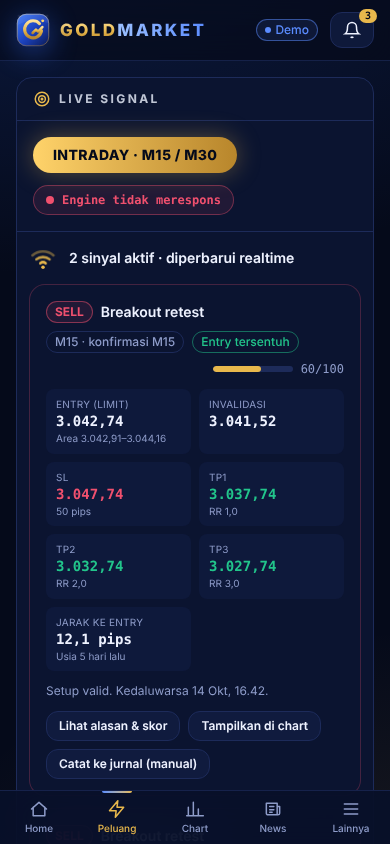
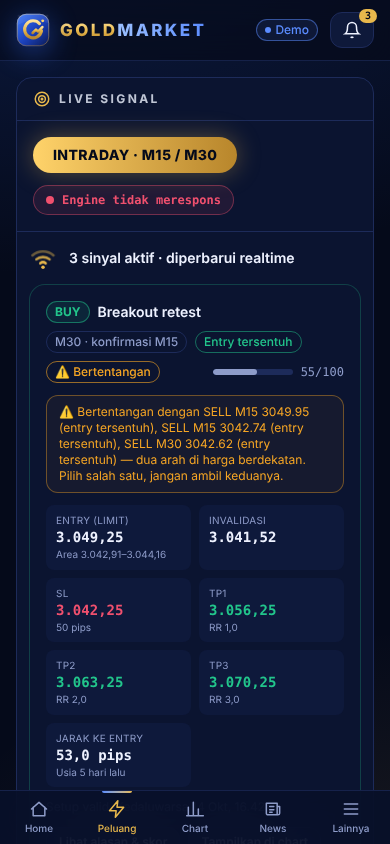
Flag opposite signals near the same price as conflicting
Two live signals in opposite directions with entries within the larger
SL distance (e.g. BUY M30 4172.15 vs SELL M15 4172.87) now carry a
conflict warning on the setup card, in the setup reasons, and in the
READY and entry-touched notifications. Both are still sent and tracked;
the user picks one.

Claude-Session: https://claude.ai/code/session_013QtfmBmTs5QPLgXJSgfiZY

Changed region(s): [[0.1231, 0.3081, 0.8923, 0.9242], [0.8615, 0.5545, 0.8923, 0.5853], [0.3385, 0.2773, 0.3692, 0.3081]]

diff --git a/src/core/engine.ts b/src/core/engine.ts
@@ -6,6 +6,7 @@ import { assessQuality, closedAsOf, type QualityReport } from "./dataQuality.ts"
 import { detectAll, type SetupCandidate } from "./strategies.ts";
 import { dedupeBatch, dedupeCandidate, evaluateStatus, type StoredSetup } from "./setups.ts";
 import { priceToPips } from "./instrument.ts";
+import { conflictText, findConflicts } from "./conflict.ts";
 import { sessionAt } from "./sessions.ts";
 
 export type NotificationKind = "new_setup" | "confirmed" | "entry_touched" | "invalid" | "expired" | "connection" | "signal_result" | "news_event";
@@ -111,6 +112,8 @@ export function runEngineCycle(i: EngineInput): EngineOutput {
       ? `Rilis ${i.newsBlackout.title} ${i.newsBlackout.timeSec > i.nowSec ? `dalam ${Math.max(1, Math.round((i.newsBlackout.timeSec - i.nowSec) / 60))} menit` : "baru saja"} — setup baru ditahan ±${cfg.newsBlackoutMin} menit di sekitar rilis.`
       : null;
   const rejected: EngineOutput["rejected"] = [];
+  // setup tersimpan + yang dibuat siklus ini (dedupe & deteksi sinyal bertentangan)
+  const known: StoredSetup[] = [...i.existing];
 
   // Sinyal baru HANYA bila data lolos validasi (tidak basi, tidak ada candle hilang, koneksi sehat).
   if (quality.ok && i.price != null && i.feedStatus !== "market_closed") {
@@ -118,7 +121,7 @@ export function runEngineCycle(i: EngineInput): EngineOutput {
       detectAll({ analysis, candles: closed, price: i.price, spreadPips: spread, nowSec: i.nowSec, dataTime: i.quoteTimeSec ?? i.nowSec, config: cfg }),
       cfg,
     );
-    const pool = [...i.existing];
+    const pool = known;
     for (const c of cands) {
       if (blackoutReason) {
         rejected.push({ identityKey: c.identityKey, reason: blackoutReason });
@@ -151,11 +154,15 @@ export function runEngineCycle(i: EngineInput): EngineOutput {
         entry_touched_at_sec: null,
       });
       if (c.eligible) {
+        // peringatan saja: setup tetap dikirim, pengguna memilih salah satu
+        const vs = findConflicts({ id: c.identityKey, direction: c.direction, timeframe: c.timeframe, entry_price: c.entry, sl: c.sl, status: "approaching", eligible: true }, pool);
+        const warn = vs.length ? `⚠ Bertentangan dengan ${vs.map(conflictText).join(", ")} — dua arah di harga berdekatan; pilih salah satu, jangan ambil keduanya.` : "";
+        if (warn) c.reasons.push(warn);
         notifications.push({
           kind: "new_setup",
           dedupeKey: `new:${c.identityKey}`,
-          title: readyTitle(c.direction, c.timeframe, "", c.strategy),
-          body: `Zona ${c.entryLow.toFixed(2)}–${c.entryHigh.toFixed(2)} · entry ${c.entryType} ${c.entry.toFixed(2)} · SL ${c.sl.toFixed(2)} · TP1 ${c.tp1.toFixed(2)} · TP2 ${c.tp2.toFixed(2)} · TP3 ${c.tp3.toFixed(2)} · skor ${c.score.total}/100. Siapkan rencana; tunggu harga masuk zona & konfirmasi.`,
+          title: readyTitle(c.direction, c.timeframe, vs.length ? " · ⚠ Bertentangan" : "", c.strategy),
+          body: `Zona ${c.entryLow.toFixed(2)}–${c.entryHigh.toFixed(2)} · entry ${c.entryType} ${c.entry.toFixed(2)} · SL ${c.sl.toFixed(2)} · TP1 ${c.tp1.toFixed(2)} · TP2 ${c.tp2.toFixed(2)} · TP3 ${c.tp3.toFixed(2)} · skor ${c.score.total}/100. Siapkan rencana; tunggu harga masuk zona & konfirmasi.${warn ? ` ${warn}` : ""}`,
           setupIdentity: c.identityKey,
           severity: "info",
           score: c.score.total,
@@ -187,8 +194,11 @@ export function runEngineCycle(i: EngineInput): EngineOutput {
     for (const ev of upd.events) {
       if (ev === "confirmed")
         notifications.push({ kind: "confirmed", dedupeKey: `confirmed:${s.id}`, title: `✅ KONFIRMASI ${s.direction} XAUUSD — ${s.timeframe}`, body: `Candle ${s.confirm_tf} tertutup mengonfirmasi area ${s.entry_low.toFixed(2)}–${s.entry_high.toFixed(2)}.`, setupId: s.id, severity: "success", timeframe: s.timeframe });
-      if (ev === "entry_touched")
-        notifications.push({ kind: "entry_touched", dedupeKey: `touched:${s.id}`, title: `🎯 ZONA ENTRY TERSENTUH — ${s.direction} XAUUSD ${s.timeframe}`, body: `Harga feed menyentuh ${s.entry_price.toFixed(2)}. Ini bukan konfirmasi bahwa Anda membuka posisi.`, setupId: s.id, severity: "info", timeframe: s.timeframe });
+      if (ev === "entry_touched") {
+        const vs = findConflicts({ ...s, status: "entry_touched", outcome: "open" }, known);
+        const warn = vs.length ? ` ⚠ Bertentangan dengan ${vs.map(conflictText).join(", ")} — pilih salah satu, jangan ambil keduanya.` : "";
+        notifications.push({ kind: "entry_touched", dedupeKey: `touched:${s.id}`, title: `🎯 ZONA ENTRY TERSENTUH — ${s.direction} XAUUSD ${s.timeframe}${vs.length ? " · ⚠ Bertentangan" : ""}`, body: `Harga feed menyentuh ${s.entry_price.toFixed(2)}. Ini bukan konfirmasi bahwa Anda membuka posisi.${warn}`, setupId: s.id, severity: "info", timeframe: s.timeframe });
+      }
       if (ev === "invalid")
         notifications.push({ kind: "invalid", dedupeKey: `invalid:${s.id}`, title: `❌ SETUP BATAL (invalid) — ${s.direction} XAUUSD ${s.timeframe}`, body: upd.reason, setupId: s.id, severity: "danger", timeframe: s.timeframe });
       if (ev === "expired")

diff --git a/supabase/functions/_shared/core/engine.ts b/supabase/functions/_shared/core/engine.ts
@@ -6,6 +6,7 @@ import { assessQuality, closedAsOf, type QualityReport } from "./dataQuality.ts"
 import { detectAll, type SetupCandidate } from "./strategies.ts";
 import { dedupeBatch, dedupeCandidate, evaluateStatus, type StoredSetup } from "./setups.ts";
 import { priceToPips } from "./instrument.ts";
+import { conflictText, findConflicts } from "./conflict.ts";
 import { sessionAt } from "./sessions.ts";
 
 export type NotificationKind = "new_setup" | "confirmed" | "entry_touched" | "invalid" | "expired" | "connection" | "signal_result" | "news_event";
@@ -111,6 +112,8 @@ export function runEngineCycle(i: EngineInput): EngineOutput {
       ? `Rilis ${i.newsBlackout.title} ${i.newsBlackout.timeSec > i.nowSec ? `dalam ${Math.max(1, Math.round((i.newsBlackout.timeSec - i.nowSec) / 60))} menit` : "baru saja"} — setup baru ditahan ±${cfg.newsBlackoutMin} menit di sekitar rilis.`
       : null;
   const rejected: EngineOutput["rejected"] = [];
+  // setup tersimpan + yang dibuat siklus ini (dedupe & deteksi sinyal bertentangan)
+  const known: StoredSetup[] = [...i.existing];
 
   // Sinyal baru HANYA bila data lolos validasi (tidak basi, tidak ada candle hilang, koneksi sehat).
   if (quality.ok && i.price != null && i.feedStatus !== "market_closed") {
@@ -118,7 +121,7 @@ export function runEngineCycle(i: EngineInput): EngineOutput {
       detectAll({ analysis, candles: closed, price: i.price, spreadPips: spread, nowSec: i.nowSec, dataTime: i.quoteTimeSec ?? i.nowSec, config: cfg }),
       cfg,
     );
-    const pool = [...i.existing];
+    const pool = known;
     for (const c of cands) {
       if (blackoutReason) {
         rejected.push({ identityKey: c.identityKey, reason: blackoutReason });
@@ -151,11 +154,15 @@ export function runEngineCycle(i: EngineInput): EngineOutput {
         entry_touched_at_sec: null,
       });
       if (c.eligible) {
+        // peringatan saja: setup tetap dikirim, pengguna memilih salah satu
+        const vs = findConflicts({ id: c.identityKey, direction: c.direction, timeframe: c.timeframe, entry_price: c.entry, sl: c.sl, status: "approaching", eligible: true }, pool);
+        const warn = vs.length ? `⚠ Bertentangan dengan ${vs.map(conflictText).join(", ")} — dua arah di harga berdekatan; pilih salah satu, jangan ambil keduanya.` : "";
+        if (warn) c.reasons.push(warn);
         notifications.push({
           kind: "new_setup",
           dedupeKey: `new:${c.identityKey}`,
-          title: readyTitle(c.direction, c.timeframe, "", c.strategy),
-          body: `Zona ${c.entryLow.toFixed(2)}–${c.entryHigh.toFixed(2)} · entry ${c.entryType} ${c.entry.toFixed(2)} · SL ${c.sl.toFixed(2)} · TP1 ${c.tp1.toFixed(2)} · TP2 ${c.tp2.toFixed(2)} · TP3 ${c.tp3.toFixed(2)} · skor ${c.score.total}/100. Siapkan rencana; tunggu harga masuk zona & konfirmasi.`,
+          title: readyTitle(c.direction, c.timeframe, vs.length ? " · ⚠ Bertentangan" : "", c.strategy),
+          body: `Zona ${c.entryLow.toFixed(2)}–${c.entryHigh.toFixed(2)} · entry ${c.entryType} ${c.entry.toFixed(2)} · SL ${c.sl.toFixed(2)} · TP1 ${c.tp1.toFixed(2)} · TP2 ${c.tp2.toFixed(2)} · TP3 ${c.tp3.toFixed(2)} · skor ${c.score.total}/100. Siapkan rencana; tunggu harga masuk zona & konfirmasi.${warn ? ` ${warn}` : ""}`,
           setupIdentity: c.identityKey,
           severity: "info",
           score: c.score.total,
@@ -187,8 +194,11 @@ export function runEngineCycle(i: EngineInput): EngineOutput {
     for (const ev of upd.events) {
       if (ev === "confirmed")
         notifications.push({ kind: "confirmed", dedupeKey: `confirmed:${s.id}`, title: `✅ KONFIRMASI ${s.direction} XAUUSD — ${s.timeframe}`, body: `Candle ${s.confirm_tf} tertutup mengonfirmasi area ${s.entry_low.toFixed(2)}–${s.entry_high.toFixed(2)}.`, setupId: s.id, severity: "success", timeframe: s.timeframe });
-      if (ev === "entry_touched")
-        notifications.push({ kind: "entry_touched", dedupeKey: `touched:${s.id}`, title: `🎯 ZONA ENTRY TERSENTUH — ${s.direction} XAUUSD ${s.timeframe}`, body: `Harga feed menyentuh ${s.entry_price.toFixed(2)}. Ini bukan konfirmasi bahwa Anda membuka posisi.`, setupId: s.id, severity: "info", timeframe: s.timeframe });
+      if (ev === "entry_touched") {
+        const vs = findConflicts({ ...s, status: "entry_touched", outcome: "open" }, known);
+        const warn = vs.length ? ` ⚠ Bertentangan dengan ${vs.map(conflictText).join(", ")} — pilih salah satu, jangan ambil keduanya.` : "";
+        notifications.push({ kind: "entry_touched", dedupeKey: `touched:${s.id}`, title: `🎯 ZONA ENTRY TERSENTUH — ${s.direction} XAUUSD ${s.timeframe}${vs.length ? " · ⚠ Bertentangan" : ""}`, body: `Harga feed menyentuh ${s.entry_price.toFixed(2)}. Ini bukan konfirmasi bahwa Anda membuka posisi.${warn}`, setupId: s.id, severity: "info", timeframe: s.timeframe });
+      }
       if (ev === "invalid")
         notifications.push({ kind: "invalid", dedupeKey: `invalid:${s.id}`, title: `❌ SETUP BATAL (invalid) — ${s.direction} XAUUSD ${s.timeframe}`, body: upd.reason, setupId: s.id, severity: "danger", timeframe: s.timeframe });
       if (ev === "expired")

diff --git a/src/components/SetupCard.tsx b/src/components/SetupCard.tsx
@@ -6,6 +6,7 @@ import { isActiveSignal, type SetupRow } from "@/lib/market";
 import { OPPORTUNITY_STATUS_LABEL } from "@/core/setups";
 import { STRATEGY_LABEL } from "@/core/config";
 import { priceToPips } from "@/core/instrument";
+import { conflictText } from "@/core/conflict";
 import { DirBadge, ScoreBar, ago, cx, fmt, fmtTime } from "./ui";
 import { ProbabilityBox } from "./ProbabilityBox";
 
@@ -19,7 +20,7 @@ const STATUS_TONE: Record<SetupRow["status"], string> = {
 
 const ENTRY_TYPE_LABEL = { market: "Market", limit: "Limit", stop: "Stop" } as const;
 
-export function SetupCard({ s, price, tz, now, minScore, pipSize = 0.1 }: { s: SetupRow; price: number | null; tz: string; now: number; minScore?: number; pipSize?: number }) {
+export function SetupCard({ s, price, tz, now, minScore, pipSize = 0.1, conflicts = [] }: { s: SetupRow; price: number | null; tz: string; now: number; minScore?: number; pipSize?: number; conflicts?: SetupRow[] }) {
   const [open, setOpen] = useState(false);
   const dist = price != null ? priceToPips(Math.abs(price - s.entry_price), { symbol: "", pipSize, tickSize: 0.01, digits: 2, contractSize: 100, quoteCurrency: "USD" }) : s.distance_pips;
   const active = isActiveSignal(s);
@@ -34,10 +35,17 @@ export function SetupCard({ s, price, tz, now, minScore, pipSize = 0.1 }: { s: S
         <span className={cx("chip", STATUS_TONE[s.status])}>{OPPORTUNITY_STATUS_LABEL[s.status]}</span>
         {!s.eligible && <span className="chip border-sell/50 text-sell">Tidak layak</span>}
         {s.confirmed_at && <span className="chip border-buy/40 text-buy">Terkonfirmasi</span>}
+        {conflicts.length > 0 && <span className="chip border-warn/60 text-warn">⚠ Bertentangan</span>}
         <div className="ml-auto">
           <ScoreBar score={s.score} min={minScore} />
         </div>
       </div>
+
+      {conflicts.length > 0 && (
+        <p className="mt-3 rounded-xl border border-warn/40 bg-warn/5 px-3 py-2 text-xs text-warn">
+          ⚠ Bertentangan dengan {conflicts.map(conflictText).join(", ")} — dua arah di harga berdekatan. Pilih salah satu, jangan ambil keduanya.
+        </p>
+      )}
 
       <div className="mt-3 grid grid-cols-2 gap-2 text-sm sm:grid-cols-4 lg:grid-cols-7">
         <Lv label={`Entry (${ENTRY_TYPE_LABEL[s.entry_type]})`} v={fmt(s.entry_price)} sub={`Area ${fmt(s.entry_low)}–${fmt(s.entry_high)}`} />

diff --git a/scripts/ui-smoke.ts b/scripts/ui-smoke.ts
@@ -77,6 +77,8 @@ for (let t = NOW - 3 * 86400; t <= NOW - 6 * 3600 && history.length < 8; t += 90
 if (setups[0]) {
   const p0 = demoPrice(NOW / 60);
   history.unshift({ ...setups[0], id: "00000000-0000-4000-9000-000000000099", direction: "SELL", timeframe: "M15", entry_price: p0 + 6, sl: p0 + 11, tp1: p0 + 1, tp2: p0 - 4, tp3: p0 - 9, status: "entry_touched", entry_touched_at: iso(NOW - 1800), outcome: "open", outcome_tp: 1, outcome_pips: null, outcome_note: "TP1 tersentuh, pelacakan berlanjut.", outcome_ambiguous: false });
+  // BUY berjalan di harga hampir sama → label "⚠ Bertentangan" ikut diuji
+  history.unshift({ ...setups[0], id: "00000000-0000-4000-9000-000000000098", eligible: true, direction: "BUY", timeframe: "M30", entry_price: p0 + 5.3, sl: p0 - 1.7, tp1: p0 + 12.3, tp2: p0 + 19.3, tp3: p0 + 26.3, status: "entry_touched", entry_touched_at: iso(NOW - 900), outcome: "open", outcome_tp: 0, outcome_pips: null, outcome_note: "Menunggu TP/SL.", outcome_ambiguous: false });
 }
 console.log(`Riwayat sinyal fixture: ${history.length}`);
 const out = runEngineCycle({ nowSec: NOW, rawCandles: raw, price: demoPrice(NOW / 60), quoteTimeSec: NOW, spreadPips: 3, assumedSpreadPips: 3, feedStatus: "live", previousFeedStatus: "live", existing: [], config: DEFAULT_ENGINE_CONFIG });
@@ -224,6 +226,7 @@ for (const vp of viewports) {
     if (errors.length) problems.push(`${vp.name} ${p}: error JS ${errors.join(" | ")}`);
     const name = `${vp.name}-${p.replace(/\//g, "").replace("?bt", "-backtest") || "dashboard"}.png`;
     await page.screenshot({ path: join(OUT, name), fullPage: vp.name === "mobile" ? false : true });
+    if (p === "/opportunities/" && (await page.getByText("⚠ Bertentangan").count()) === 0) problems.push(`${vp.name} ${p}: label "⚠ Bertentangan" tidak tampil`);
     if (p === "/opportunities/") {
       // riwayat sinyal: baris berjalan bisa diketuk → tangga TP + floating
       const row = page.getByRole("button", { name: /TP1 ✓/ }).first();

diff --git a/tests/conflict.test.ts b/tests/conflict.test.ts
@@ -1,0 +1,34 @@
+import { describe, expect, it } from "vitest";
+import { conflictText, findConflicts, type ConflictView } from "../src/core/conflict.ts";
+
+const sig = (o: Partial<ConflictView>): ConflictView => ({
+  id: "x", direction: "BUY", timeframe: "M30", entry_price: 4172.15, sl: 4165.15, status: "entry_touched", eligible: true, outcome: "open", ...o,
+});
+
+describe("sinyal bertentangan", () => {
+  const buyM30 = sig({ id: "buy" });
+  const sellM15 = sig({ id: "sell", direction: "SELL", timeframe: "M15", entry_price: 4172.87, sl: 4177.87 });
+
+  it("BUY M30 4172,15 vs SELL M15 4172,87 (19 Okt) → bertentangan dua arah", () => {
+    expect(findConflicts(sellM15, [buyM30, sellM15])).toEqual([buyM30]);
+    expect(findConflicts(buyM30, [buyM30, sellM15])).toEqual([sellM15]);
+    expect(conflictText(buyM30)).toBe("BUY M30 4172.15 (entry tersentuh)");
+  });
+  it("jual di atas / beli di bawah range (91 pips) → tidak", () => {
+    const sell = sig({ id: "s", direction: "SELL", timeframe: "M15", entry_price: 4183.12, sl: 4188.12 });
+    const buy = sig({ id: "b", timeframe: "M15", entry_price: 4174.03, sl: 4169.03 });
+    expect(findConflicts(sell, [buy])).toEqual([]);
+  });
+  it("arah sama → tidak", () => {
+    expect(findConflicts(buyM30, [sig({ id: "b2", entry_price: 4171 })])).toEqual([]);
+  });
+  it("lawan sudah selesai, invalid, kedaluwarsa, atau tidak layak → tidak", () => {
+    for (const o of [{ outcome: "win" }, { status: "invalid", outcome: null }, { status: "expired", outcome: null }, { status: "approaching", outcome: null, eligible: false }]) {
+      expect(findConflicts(buyM30, [{ ...sellM15, ...o }])).toEqual([]);
+    }
+  });
+  it("lawan sudah TP1 tapi posisi masih terbuka, atau masih menunggu entry → tetap bertentangan", () => {
+    expect(findConflicts(buyM30, [sellM15])).toHaveLength(1);
+    expect(findConflicts(buyM30, [{ ...sellM15, status: "approaching", outcome: null }])).toHaveLength(1);
+  });
+});

diff --git a/src/app/opportunities/page.tsx b/src/app/opportunities/page.tsx
@@ -5,6 +5,7 @@ import { useMemo, useState } from "react";
 import { AppShell } from "@/components/Shell";
 import { useMarket } from "@/components/MarketContext";
 import { SetupCard } from "@/components/SetupCard";
+import { findConflicts } from "@/core/conflict";
 import { HistoryPanel, SignalHistoryItem, relTime } from "@/components/SignalHistory";
 import { PushToggle } from "@/components/PushToggle";
 import { Disclaimer, Empty, cx, fmt, useNow } from "@/components/ui";
@@ -279,7 +280,7 @@ function LiveSignal() {
               <span className="text-sm font-semibold">{list.length} sinyal aktif · diperbarui realtime</span>
             </div>
             {list.map((s) => (
-              <SetupCard key={s.id} s={s} price={snapshot?.price ?? null} tz={tz} now={now} minScore={settings?.min_score?.[s.timeframe]} pipSize={settings?.pip_size} />
+              <SetupCard key={s.id} s={s} price={snapshot?.price ?? null} tz={tz} now={now} minScore={settings?.min_score?.[s.timeframe]} pipSize={settings?.pip_size} conflicts={findConflicts(s, setups)} />
             ))}
           </div>
         )}
@@ -300,7 +301,7 @@ function LiveSignal() {
         </div>
         {f.status !== "active" && (
           <div className="mt-3 space-y-3">
-            {list.length === 0 ? <Empty title="Tidak ada peluang yang cocok">Ubah filter.</Empty> : list.map((s) => <SetupCard key={s.id} s={s} price={snapshot?.price ?? null} tz={tz} now={now} minScore={settings?.min_score?.[s.timeframe]} pipSize={settings?.pip_size} />)}
+            {list.length === 0 ? <Empty title="Tidak ada peluang yang cocok">Ubah filter.</Empty> : list.map((s) => <SetupCard key={s.id} s={s} price={snapshot?.price ?? null} tz={tz} now={now} minScore={settings?.min_score?.[s.timeframe]} pipSize={settings?.pip_size} conflicts={findConflicts(s, setups)} />)}
           </div>
         )}
       </details>

diff --git a/src/core/conflict.ts b/src/core/conflict.ts
@@ -1,0 +1,32 @@
+/**
+ * Sinyal BERTENTANGAN: dua setup arah berlawanan yang sama-sama masih hidup (menunggu entry atau
+ * sedang berjalan) dengan entry berdekatan (≤ jarak SL terbesar keduanya). Hanya peringatan —
+ * keduanya tetap dikirim dan dilacak; pengguna memilih salah satu.
+ */
+export interface ConflictView {
+  id: string;
+  direction: "BUY" | "SELL";
+  timeframe: string;
+  entry_price: number;
+  sl: number;
+  status: string;
+  eligible: boolean;
+  outcome?: string | null;
+}
+
+export function isLiveSignal(s: ConflictView): boolean {
+  if (s.status === "approaching" || s.status === "awaiting_confirmation") return s.eligible;
+  return s.status === "entry_touched" && (s.outcome == null || s.outcome === "open");
+}
+
+export function findConflicts<T extends ConflictView>(s: ConflictView, others: T[]): T[] {
+  if (!isLiveSignal(s)) return [];
+  const risk = Math.abs(s.entry_price - s.sl);
+  return others.filter(
+    (o) => o.id !== s.id && o.direction !== s.direction && isLiveSignal(o) && Math.abs(o.entry_price - s.entry_price) <= Math.max(risk, Math.abs(o.entry_price - o.sl)),
+  );
+}
+
+export function conflictText(o: ConflictView): string {
+  return `${o.direction} ${o.timeframe} ${o.entry_price.toFixed(2)} (${o.status === "entry_touched" ? "entry tersentuh" : "menunggu entry"})`;
+}

diff --git a/supabase/functions/_shared/core/conflict.ts b/supabase/functions/_shared/core/conflict.ts
@@ -1,0 +1,32 @@
+/**
+ * Sinyal BERTENTANGAN: dua setup arah berlawanan yang sama-sama masih hidup (menunggu entry atau
+ * sedang berjalan) dengan entry berdekatan (≤ jarak SL terbesar keduanya). Hanya peringatan —
+ * keduanya tetap dikirim dan dilacak; pengguna memilih salah satu.
+ */
+export interface ConflictView {
+  id: string;
+  direction: "BUY" | "SELL";
+  timeframe: string;
+  entry_price: number;
+  sl: number;
+  status: string;
+  eligible: boolean;
+  outcome?: string | null;
+}
+
+export function isLiveSignal(s: ConflictView): boolean {
+  if (s.status === "approaching" || s.status === "awaiting_confirmation") return s.eligible;
+  return s.status === "entry_touched" && (s.outcome == null || s.outcome === "open");
+}
+
+export function findConflicts<T extends ConflictView>(s: ConflictView, others: T[]): T[] {
+  if (!isLiveSignal(s)) return [];
+  const risk = Math.abs(s.entry_price - s.sl);
+  return others.filter(
+    (o) => o.id !== s.id && o.direction !== s.direction && isLiveSignal(o) && Math.abs(o.entry_price - s.entry_price) <= Math.max(risk, Math.abs(o.entry_price - o.sl)),
+  );
+}
+
+export function conflictText(o: ConflictView): string {
+  return `${o.direction} ${o.timeframe} ${o.entry_price.toFixed(2)} (${o.status === "entry_touched" ? "entry tersentuh" : "menunggu entry"})`;
+}

diff --git a/src/app/page.tsx b/src/app/page.tsx
@@ -5,6 +5,7 @@ import { AppShell } from "@/components/Shell";
 import { useMarket } from "@/components/MarketContext";
 import { SessionsCard } from "@/components/SessionsCard";
 import { SetupCard } from "@/components/SetupCard";
+import { findConflicts } from "@/core/conflict";
 import { useEffect, useState } from "react";
 import { Card, Disclaimer, Empty, StatusBadge, ago, cx, fmt, fmtTime, useNow } from "@/components/ui";
 import { LogoMark } from "@/components/Logo";
@@ -279,7 +280,7 @@ function Dashboard() {
           {active.length === 0 ? (
             <Empty title="Belum ada setup valid">Engine tidak memaksakan sinyal. Setup muncul hanya jika syarat data, struktur, invalidasi, dan risiko terpenuhi.</Empty>
           ) : (
-            active.slice(0, 3).map((s) => <SetupCard key={s.id} s={s} price={snapshot?.price ?? null} tz={tz} now={now} minScore={settings?.min_score?.[s.timeframe]} pipSize={settings?.pip_size} />)
+            active.slice(0, 3).map((s) => <SetupCard key={s.id} s={s} price={snapshot?.price ?? null} tz={tz} now={now} minScore={settings?.min_score?.[s.timeframe]} pipSize={settings?.pip_size} conflicts={findConflicts(s, setups)} />)
           )}
         </div>
         <div className="min-w-0 xl:col-span-2">

diff --git a/tests/engine.test.ts b/tests/engine.test.ts
@@ -247,5 +247,6 @@ describe("label eksperimen", () => {
     expect(readyTitle("SELL", "M15", "", "sd_reversal")).toBe("🔴 READY SELL XAUUSD — M15 · 🧪 Eksperimen");
     expect(readyTitle("BUY", "H1", " · 12.0 pips lagi", "breakout_retest")).toBe("🟢 READY BUY XAUUSD — H1 · 12.0 pips lagi");
     expect(readyTitle("BUY", "M15", "", "liquidity_sweep")).toBe("🟢 READY BUY XAUUSD — M15 · 🧪 Eksperimen");
+    expect(readyTitle("SELL", "M15", " · ⚠ Bertentangan", "sd_reversal")).toBe("🔴 READY SELL XAUUSD — M15 · 🧪 Eksperimen · ⚠ Bertentangan");
   });
 });

diff --git a/src/core/setups.ts b/src/core/setups.ts
@@ -25,6 +25,8 @@ export interface StoredSetup {
   eligible: boolean;
   confirmed_at_sec: number | null;
   entry_touched_at_sec: number | null;
+  /** hasil sinyal menurut feed (untuk deteksi sinyal bertentangan) */
+  outcome?: string | null;
 }
 
 export type DedupeVerdict = { ok: true } | { ok: false; reason: string };

diff --git a/supabase/functions/_shared/core/setups.ts b/supabase/functions/_shared/core/setups.ts
@@ -25,6 +25,8 @@ export interface StoredSetup {
   eligible: boolean;
   confirmed_at_sec: number | null;
   entry_touched_at_sec: number | null;
+  /** hasil sinyal menurut feed (untuk deteksi sinyal bertentangan) */
+  outcome?: string | null;
 }
 
 export type DedupeVerdict = { ok: true } | { ok: false; reason: string };
